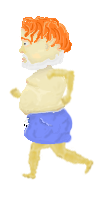
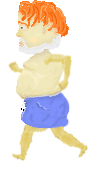
""

Changed region(s): [[0.0556, 0.0, 0.8611, 0.9429], [0.3056, 0.4, 0.3611, 0.4286]]

diff --git a/src/GameState/FirstState.java b/src/GameState/FirstState.java
@@ -12,23 +12,25 @@ import java.util.ArrayList;
 import java.util.HashMap;
 import java.util.Map;
 
-public class FirstState extends GameState{
+public class FirstState extends GameState {
     Image image;
     Player player;
     boolean bPressed = false;
     Background bgClouds;
-    private HashMap activeKeys = new HashMap<Integer, Boolean>();
+    Background bgSea;
+    Background bgPlatform;
+    private ArrayList activeKeys = new ArrayList<Integer>();
 
     public FirstState(GameStateManager gsm) {
         this.gsm = gsm;
         try {
-            image = ImageIO.read(getClass().getResourceAsStream("/Resources/GameState1BG.png")).getScaledInstance(GamePanel.WIDTH, GamePanel. HEIGHT, Image.SCALE_SMOOTH);
-            bgClouds = new Background("/Resources/clouds.png", 0);
-            bgClouds.setVector(-1,0);
+            bgSea = new Background("/Resources/GameState1BG.png", 0);
+            bgClouds = new Background("/Resources/clouds.png", 5);
+            bgClouds.setVector(-2, 0);
+            bgPlatform = new Background("/Resources/stoneflor.png", 5);
             player = new Player();
             player.useStamina(true);
-        }
-        catch (Exception e) {
+        } catch (Exception e) {
             e.printStackTrace();
         }
     }
@@ -40,47 +42,62 @@ public class FirstState extends GameState{
 
     @Override
     public void update() {
-        //if (bPressed)
         player.update();
+        bgSea.update();
         bgClouds.update();
+        bgPlatform.update();
     }
 
     @Override
     public void render(Graphics2D g) {
         g.drawImage(image, 0, 0, null);
+        bgSea.render(g);
         bgClouds.render(g);
+        bgPlatform.render(g);
         player.render(g);
-        g.drawString("Stamina: " + Integer.toString(player.stamina), 20,60);
-        g.drawString("Health: " + Integer.toString(player.health), 20,120);
+        g.drawString("Stamina: " + Integer.toString(player.stamina), 20, 60);
+        g.drawString("Health: " + Integer.toString(player.health), 20, 120);
     }
 
     @Override
     public void keyPressed(int k) {
-        activeKeys.put(k, true);
+        activeKeys.add(k);
+        activeKeys.forEach(key -> {
+            switch ((int) key) {
+                case KeyEvent.VK_D:
+                    player.runRight();
+                    bgSea.setVector(-1, 0);
+                    bgClouds.setVector(-1.5, 0);
+                    bgPlatform.setVector(-20, 0);
+                    bPressed = true;
+            }
+        });
 
-        if (!bPressed) {
-            if (KeyEvent.VK_A == k) {
-                player.runLeft();
-                bPressed = true;
-            }
-            if (KeyEvent.VK_D == k) {
-                player.runRight();
-                bPressed = true;
-            }
-            if (KeyEvent.VK_SPACE == k) {
-                player.jump();
-                bPressed = true;
-            }
-            if (KeyEvent.VK_Q == k) {
-                player.attack();
-                bPressed = true;
-            }
+        if (KeyEvent.VK_A == k) {
+            player.runLeft();
+            bgSea.setVector(1, 0);
+            bgClouds.setVector(0.5, 0);
+            bgPlatform.setVector(20, 0);
+            bPressed = true;
+        }
+        if (KeyEvent.VK_D == k) {
+
+        }
+        if (KeyEvent.VK_SPACE == k) {
+            player.jump();
+            bPressed = true;
+        }
+        if (KeyEvent.VK_Q == k) {
+            player.attack();
+            bPressed = true;
         }
     }
 
+
+
     @Override
     public void keyReleased(int k) {
-        activeKeys.put(k, false);
+        activeKeys.remove((Object) k);
         bPressed = false;
         player.puff();
     }

diff --git a/src/GameContent/Player.java b/src/GameContent/Player.java
@@ -15,8 +15,8 @@ public class Player {
     public int health = 100;
     public int stamina = 100;
     private boolean useStamina = false;
-    private Image[] runLeft = new Image[5];
-    private Image[] runRight = new Image[5];
+    private Image[] runLeft = new Image[7];
+    private Image[] runRight = new Image[7];
     private int x, y, dx, dy;
     private int height = (int)(GamePanel.HEIGHT * 0.3);
     private int width = (int)(GamePanel.WIDTH * 0.2);
@@ -28,12 +28,12 @@ public class Player {
 
     public Player(){
         try {
-            for (int i = 0; i < 5; i++) {
+            for (int i = 0; i < 7; i++) {
                 runRight[i] = ImageIO.read(getClass().getResourceAsStream("/Resources/ManAnimation/RunningRight/runningRight" + i + ".png")).getScaledInstance(width, height, Image.SCALE_SMOOTH);
                 runLeft[i] = ImageIO.read(getClass().getResourceAsStream("/Resources/ManAnimation/RunningLeft/runningLeft" + i + ".png")).getScaledInstance(width, height, Image.SCALE_SMOOTH);
             }
             timer.start();
-            animator = new Animator(runRight , 0, (int)(GamePanel.HEIGHT * 0.7));
+            animator = new Animator(runRight , GamePanel.HEIGHT/2, (int)(GamePanel.HEIGHT * 0.7));
 
         }
         catch (Exception e){
@@ -43,7 +43,7 @@ public class Player {
 
     public void runRight(){
         animator = new Animator(runRight , (int) animator.getX(), (int)animator.getY());
-        animator.setVector(20, 0 );
+        //animator.setVector(20, 0 );
         animator.start();
         puffing = false;
 
@@ -51,7 +51,7 @@ public class Player {
 
     public void runLeft(){
         animator = new Animator(runLeft , (int) animator.getX(), (int) animator.getY());
-        animator.setVector(-20, 0 );
+        //animator.setVector(-20, 0 );
         animator.start();
         puffing = false;
     }
